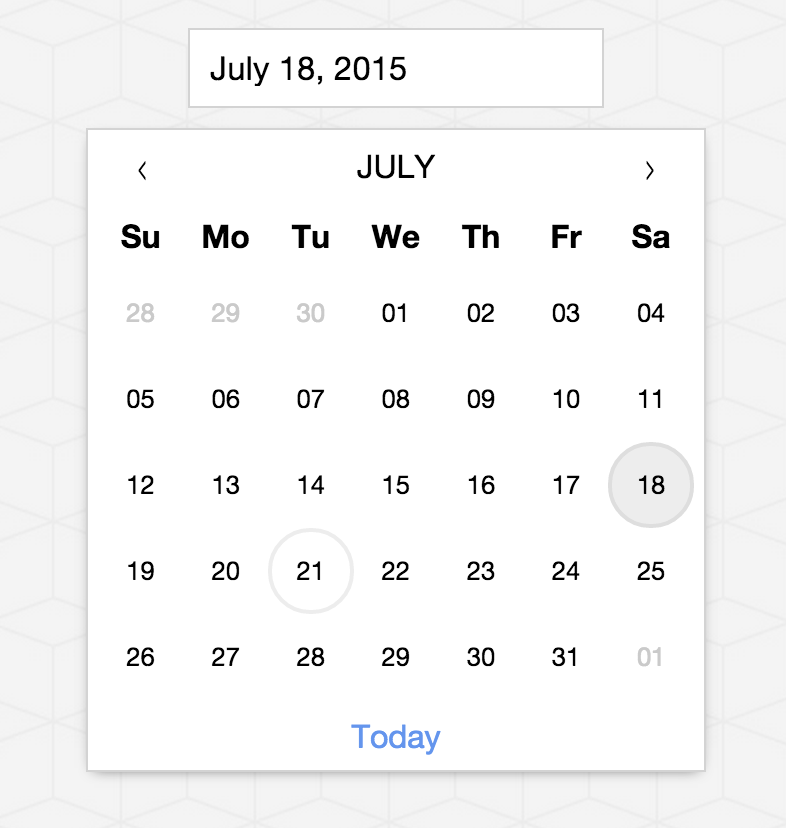
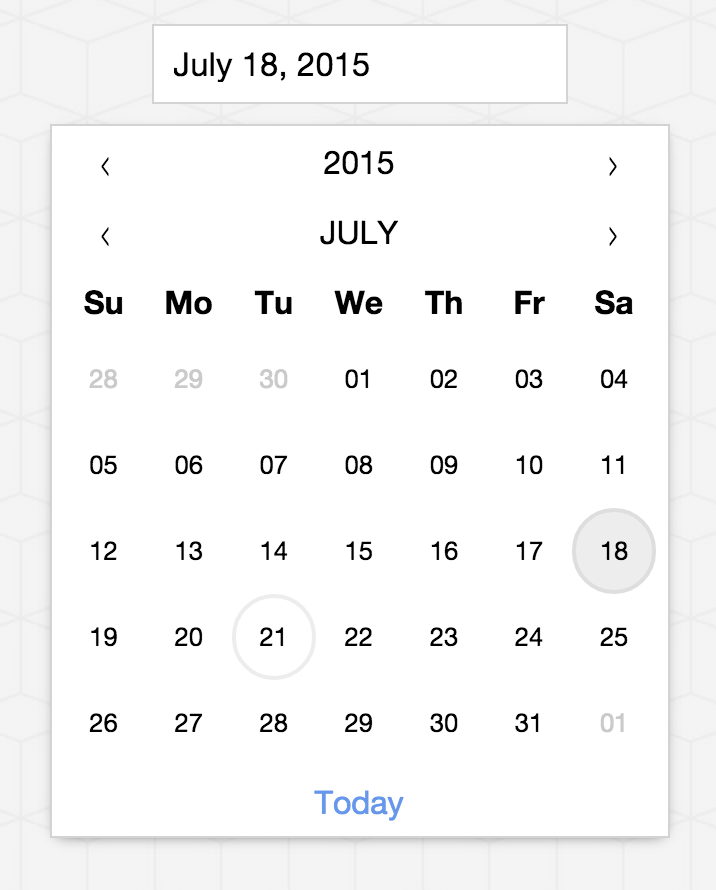
Added year selector and ability to turn selectors on and off

diff --git a/dist/rg-datepicker.min.js b/dist/rg-datepicker.min.js
@@ -1,1 +1,1 @@
-riot.tag("rg-datepicker",'<div class="container { open: opened }"> <input type="text" onclick="{ show }" value="{ date.format(opts.format || \'LL\') }" readonly> <div class="calendar" show="{ opened }"> <div class="grid grid-row"> <div class="selector" onclick="{ prevMonth }">&lsaquo;</div> <span class="month">{ date.format(\'MMMM\') }</span> <div class="selector" onclick="{ nextMonth }">&rsaquo;</div> </div> <div class="grid grid-row"> <span class="day-name" each="{ day in dayNames }">{ day }</span> </div> <div class="grid grid-wrap"> <div each="{ day in days }" onclick="{ changeDate }" class="date { in: day.inMonth, selected: day.selected, today: day.today }"> { day.date.format(\'DD\') } </div> </div> <div class="grid grid-row"> <a class="shortcut" onclick="{ setToday }">Today</a> </div> </div> </div>','rg-datepicker .container, [riot-tag="rg-datepicker"] .container{ position: relative; display: inline-block; cursor: pointer; } rg-datepicker input, [riot-tag="rg-datepicker"] input{ font-size: 1em; padding: 10px; border: 1px solid #D3D3D3; cursor: pointer; -webkit-box-sizing: border-box; -moz-box-sizing: border-box; box-sizing: border-box; outline: none; } rg-datepicker .calendar, [riot-tag="rg-datepicker"] .calendar{ position: absolute; text-align: center; background-color: white; border: 1px solid #D3D3D3; padding: 0 5px; width: 310px; margin-top: 10px; left: 50%; -webkit-transform: translateX(-50%); -moz-transform: translateX(-50%); -ms-transform: translateX(-50%); -o-transform: translateX(-50%); transform: translateX(-50%); -webkit-user-select: none; -moz-user-select: none; -ms-user-select: none; user-select: none; -webkit-box-sizing: border-box; -moz-box-sizing: border-box; box-sizing: border-box; -webkit-box-shadow: 0 2px 10px -4px #444; -moz-box-shadow: 0 2px 10px -4px #444; box-shadow: 0 2px 10px -4px #444; } rg-datepicker .grid, [riot-tag="rg-datepicker"] .grid{ display: -webkit-flex; display: -ms-flexbox; display: flex; -webkit-align-items: center; -ms-flex-align: center; align-items: center; } rg-datepicker .grid-wrap, [riot-tag="rg-datepicker"] .grid-wrap{ width: 100%; -webkit-flex-wrap: wrap; -ms-flex-wrap: wrap; flex-wrap: wrap; } rg-datepicker .grid-row, [riot-tag="rg-datepicker"] .grid-row{ height: 35px; } rg-datepicker .selector, [riot-tag="rg-datepicker"] .selector{ font-size: 2em; font-weight: 100; padding: 0; -webkit-flex: 0 0 15%; -ms-flex: 0 0 15%; flex: 0 0 15%; } rg-datepicker .month, [riot-tag="rg-datepicker"] .month{ text-transform: uppercase; font-weight: normal; -webkit-flex: 0 0 70%; -ms-flex: 0 0 70%; flex: 0 0 70%; } rg-datepicker .day-name, [riot-tag="rg-datepicker"] .day-name{ font-weight: bold; -webkit-flex: 0 0 14.28%; -ms-flex: 0 0 14.28%; flex: 0 0 14.28%; } rg-datepicker .date, [riot-tag="rg-datepicker"] .date{ -webkit-flex: 0 0 14.28%; -ms-flex: 0 0 14.28%; flex: 0 0 14.28%; padding: 12px; box-sizing: border-box; font-size: 0.8em; border-radius: 100%; font-weight: normal; border: 2px solid transparent; color: #cacaca; } rg-datepicker .date:hover, [riot-tag="rg-datepicker"] .date:hover{ background-color: #f3f3f3; } rg-datepicker .date.in, [riot-tag="rg-datepicker"] .date.in{ color: inherit; } rg-datepicker .today, [riot-tag="rg-datepicker"] .today{ border-color: #ededed; } rg-datepicker .selected, [riot-tag="rg-datepicker"] .selected,rg-datepicker .selected:hover, [riot-tag="rg-datepicker"] .selected:hover{ background-color: #ededed; border-color: #dedede; } rg-datepicker .shortcut, [riot-tag="rg-datepicker"] .shortcut{ -webkit-flex: 0 0 100%; -ms-flex: 0 0 100%; flex: 0 0 100%; color: #6495ed; }',function(opts){var _this=this;_this.date=moment(opts.date||new Date);function handleClickOutside(e){if(!_this.root.contains(e.target)&&_this.opened){if(opts.onclose){opts.onclose(_this.date)}_this.opened=false;_this.update()}}function buildCalendar(){var cursor=moment(_this.date);var end=moment(cursor);cursor.startOf("month");cursor.day(0);end.endOf("month");end.day(6);_this.dayNames=[];_this.days=[];while(cursor.isBefore(end)){if(_this.dayNames.length<7){_this.dayNames.push(cursor.format("dd"))}_this.days.push({date:moment(cursor),selected:_this.date.isSame(cursor,"day"),today:moment().isSame(cursor,"day"),inMonth:_this.date.isSame(cursor,"month")});cursor=cursor.add(1,"days")}_this.opts.date=_this.date.toDate();_this.update()}_this.on("mount",function(){document.addEventListener("click",handleClickOutside)});_this.on("unmount",function(){document.removeEventListener("click",handleClickOutside)});_this.changeDate=function(e){_this.date=e.item.day.date;if(opts.onselect){opts.onselect(_this.date)}buildCalendar()};_this.setToday=function(){_this.date=opts.date=moment();if(opts.onselect){opts.onselect(_this.date)}buildCalendar()};_this.prevMonth=function(){_this.date.subtract(1,"month");buildCalendar()};_this.nextMonth=function(){_this.date.add(1,"month");buildCalendar()};_this.show=function(){if(opts.onopen){opts.onopen()}buildCalendar();_this.opened=true}});
+riot.tag("rg-datepicker",'{ opts.months} <div class="container { open: opened }"> <input type="text" onclick="{ show }" value="{ date.format(opts.format || \'LL\') }" readonly> <div class="calendar" show="{ opened }"> <div class="grid grid-row" if="{ opts.years != \'false\' }"> <div class="selector" onclick="{ prevYear }">&lsaquo;</div> <span class="year">{ date.format(\'YYYY\') }</span> <div class="selector" onclick="{ nextYear }">&rsaquo;</div> </div> <div class="grid grid-row" if="{ opts.years == \'false\' }"> <span class="year fill">{ date.format(\'YYYY\') }</span> </div> <div class="grid grid-row" if="{ opts.months != \'false\' }"> <div class="selector" onclick="{ prevMonth }">&lsaquo;</div> <span class="month">{ date.format(\'MMMM\') }</span> <div class="selector" onclick="{ nextMonth }">&rsaquo;</div> </div> <div class="grid grid-row" if="{ opts.months == \'false\' }"> <span class="month fill">{ date.format(\'MMMM\') }</span> </div> <div class="grid grid-row"> <span class="day-name" each="{ day in dayNames }">{ day }</span> </div> <div class="grid grid-wrap"> <div each="{ day in days }" onclick="{ changeDate }" class="date { in: day.inMonth, selected: day.selected, today: day.today }"> { day.date.format(\'DD\') } </div> </div> <div class="grid grid-row"> <a class="shortcut" onclick="{ setToday }">Today</a> </div> </div> </div>','rg-datepicker .container, [riot-tag="rg-datepicker"] .container{ position: relative; display: inline-block; cursor: pointer; } rg-datepicker input, [riot-tag="rg-datepicker"] input{ font-size: 1em; padding: 10px; border: 1px solid #D3D3D3; cursor: pointer; -webkit-box-sizing: border-box; -moz-box-sizing: border-box; box-sizing: border-box; outline: none; } rg-datepicker .calendar, [riot-tag="rg-datepicker"] .calendar{ position: absolute; text-align: center; background-color: white; border: 1px solid #D3D3D3; padding: 0 5px; width: 310px; margin-top: 10px; left: 50%; -webkit-transform: translateX(-50%); -moz-transform: translateX(-50%); -ms-transform: translateX(-50%); -o-transform: translateX(-50%); transform: translateX(-50%); -webkit-user-select: none; -moz-user-select: none; -ms-user-select: none; user-select: none; -webkit-box-sizing: border-box; -moz-box-sizing: border-box; box-sizing: border-box; -webkit-box-shadow: 0 2px 10px -4px #444; -moz-box-shadow: 0 2px 10px -4px #444; box-shadow: 0 2px 10px -4px #444; } rg-datepicker .grid, [riot-tag="rg-datepicker"] .grid{ display: -webkit-flex; display: -ms-flexbox; display: flex; -webkit-align-items: center; -ms-flex-align: center; align-items: center; } rg-datepicker .grid-wrap, [riot-tag="rg-datepicker"] .grid-wrap{ width: 100%; -webkit-flex-wrap: wrap; -ms-flex-wrap: wrap; flex-wrap: wrap; } rg-datepicker .grid-row, [riot-tag="rg-datepicker"] .grid-row{ height: 35px; } rg-datepicker .selector, [riot-tag="rg-datepicker"] .selector{ font-size: 2em; font-weight: 100; padding: 0; -webkit-flex: 0 0 15%; -ms-flex: 0 0 15%; flex: 0 0 15%; } rg-datepicker .year, [riot-tag="rg-datepicker"] .year,rg-datepicker .month, [riot-tag="rg-datepicker"] .month{ text-transform: uppercase; font-weight: normal; -webkit-flex: 0 0 70%; -ms-flex: 0 0 70%; flex: 0 0 70%; } rg-datepicker .fill, [riot-tag="rg-datepicker"] .fill{ -webkit-flex: 0 0 100%; -ms-flex: 0 0 100%; flex: 0 0 100%; } rg-datepicker .day-name, [riot-tag="rg-datepicker"] .day-name{ font-weight: bold; -webkit-flex: 0 0 14.28%; -ms-flex: 0 0 14.28%; flex: 0 0 14.28%; } rg-datepicker .date, [riot-tag="rg-datepicker"] .date{ -webkit-flex: 0 0 14.28%; -ms-flex: 0 0 14.28%; flex: 0 0 14.28%; padding: 12px; box-sizing: border-box; font-size: 0.8em; border-radius: 100%; font-weight: normal; border: 2px solid transparent; color: #cacaca; } rg-datepicker .date:hover, [riot-tag="rg-datepicker"] .date:hover{ background-color: #f3f3f3; } rg-datepicker .date.in, [riot-tag="rg-datepicker"] .date.in{ color: inherit; } rg-datepicker .today, [riot-tag="rg-datepicker"] .today{ border-color: #ededed; } rg-datepicker .selected, [riot-tag="rg-datepicker"] .selected,rg-datepicker .selected:hover, [riot-tag="rg-datepicker"] .selected:hover{ background-color: #ededed; border-color: #dedede; } rg-datepicker .shortcut, [riot-tag="rg-datepicker"] .shortcut{ -webkit-flex: 0 0 100%; -ms-flex: 0 0 100%; flex: 0 0 100%; color: #6495ed; }',function(opts){var _this=this;_this.date=moment(opts.date||new Date);function handleClickOutside(e){if(!_this.root.contains(e.target)&&_this.opened){if(opts.onclose){opts.onclose(_this.date)}_this.opened=false;_this.update()}}function buildCalendar(){var cursor=moment(_this.date);var end=moment(cursor);cursor.startOf("month");cursor.day(0);end.endOf("month");end.day(6);_this.dayNames=[];_this.days=[];while(cursor.isBefore(end)){if(_this.dayNames.length<7){_this.dayNames.push(cursor.format("dd"))}_this.days.push({date:moment(cursor),selected:_this.date.isSame(cursor,"day"),today:moment().isSame(cursor,"day"),inMonth:_this.date.isSame(cursor,"month")});cursor=cursor.add(1,"days")}_this.opts.date=_this.date.toDate();_this.update()}_this.on("mount",function(){document.addEventListener("click",handleClickOutside)});_this.on("unmount",function(){document.removeEventListener("click",handleClickOutside)});_this.changeDate=function(e){_this.date=e.item.day.date;if(opts.onselect){opts.onselect(_this.date)}buildCalendar()};_this.setToday=function(){_this.date=opts.date=moment();if(opts.onselect){opts.onselect(_this.date)}buildCalendar()};_this.prevYear=function(){_this.date.subtract(1,"year");buildCalendar()};_this.nextYear=function(){_this.date.add(1,"year");buildCalendar()};_this.prevMonth=function(){_this.date.subtract(1,"month");buildCalendar()};_this.nextMonth=function(){_this.date.add(1,"month");buildCalendar()};_this.show=function(){if(opts.onopen){opts.onopen()}buildCalendar();_this.opened=true}});

diff --git a/dist/rg-datepicker.js b/dist/rg-datepicker.js
@@ -1,4 +1,4 @@
-riot.tag('rg-datepicker', '<div class="container { open: opened }"> <input type="text" onclick="{ show }" value="{ date.format(opts.format || \'LL\') }" readonly> <div class="calendar" show="{ opened }"> <div class="grid grid-row"> <div class="selector" onclick="{ prevMonth }">&lsaquo;</div> <span class="month">{ date.format(\'MMMM\') }</span> <div class="selector" onclick="{ nextMonth }">&rsaquo;</div> </div> <div class="grid grid-row"> <span class="day-name" each="{ day in dayNames }">{ day }</span> </div> <div class="grid grid-wrap"> <div each="{ day in days }" onclick="{ changeDate }" class="date { in: day.inMonth, selected: day.selected, today: day.today }"> { day.date.format(\'DD\') } </div> </div> <div class="grid grid-row"> <a class="shortcut" onclick="{ setToday }">Today</a> </div> </div> </div>', 'rg-datepicker .container, [riot-tag="rg-datepicker"] .container{ position: relative; display: inline-block; cursor: pointer; } rg-datepicker input, [riot-tag="rg-datepicker"] input{ font-size: 1em; padding: 10px; border: 1px solid #D3D3D3; cursor: pointer; -webkit-box-sizing: border-box; -moz-box-sizing: border-box; box-sizing: border-box; outline: none; } rg-datepicker .calendar, [riot-tag="rg-datepicker"] .calendar{ position: absolute; text-align: center; background-color: white; border: 1px solid #D3D3D3; padding: 0 5px; width: 310px; margin-top: 10px; left: 50%; -webkit-transform: translateX(-50%); -moz-transform: translateX(-50%); -ms-transform: translateX(-50%); -o-transform: translateX(-50%); transform: translateX(-50%); -webkit-user-select: none; -moz-user-select: none; -ms-user-select: none; user-select: none; -webkit-box-sizing: border-box; -moz-box-sizing: border-box; box-sizing: border-box; -webkit-box-shadow: 0 2px 10px -4px #444; -moz-box-shadow: 0 2px 10px -4px #444; box-shadow: 0 2px 10px -4px #444; } rg-datepicker .grid, [riot-tag="rg-datepicker"] .grid{ display: -webkit-flex; display: -ms-flexbox; display: flex; -webkit-align-items: center; -ms-flex-align: center; align-items: center; } rg-datepicker .grid-wrap, [riot-tag="rg-datepicker"] .grid-wrap{ width: 100%; -webkit-flex-wrap: wrap; -ms-flex-wrap: wrap; flex-wrap: wrap; } rg-datepicker .grid-row, [riot-tag="rg-datepicker"] .grid-row{ height: 35px; } rg-datepicker .selector, [riot-tag="rg-datepicker"] .selector{ font-size: 2em; font-weight: 100; padding: 0; -webkit-flex: 0 0 15%; -ms-flex: 0 0 15%; flex: 0 0 15%; } rg-datepicker .month, [riot-tag="rg-datepicker"] .month{ text-transform: uppercase; font-weight: normal; -webkit-flex: 0 0 70%; -ms-flex: 0 0 70%; flex: 0 0 70%; } rg-datepicker .day-name, [riot-tag="rg-datepicker"] .day-name{ font-weight: bold; -webkit-flex: 0 0 14.28%; -ms-flex: 0 0 14.28%; flex: 0 0 14.28%; } rg-datepicker .date, [riot-tag="rg-datepicker"] .date{ -webkit-flex: 0 0 14.28%; -ms-flex: 0 0 14.28%; flex: 0 0 14.28%; padding: 12px; box-sizing: border-box; font-size: 0.8em; border-radius: 100%; font-weight: normal; border: 2px solid transparent; color: #cacaca; } rg-datepicker .date:hover, [riot-tag="rg-datepicker"] .date:hover{ background-color: #f3f3f3; } rg-datepicker .date.in, [riot-tag="rg-datepicker"] .date.in{ color: inherit; } rg-datepicker .today, [riot-tag="rg-datepicker"] .today{ border-color: #ededed; } rg-datepicker .selected, [riot-tag="rg-datepicker"] .selected,rg-datepicker .selected:hover, [riot-tag="rg-datepicker"] .selected:hover{ background-color: #ededed; border-color: #dedede; } rg-datepicker .shortcut, [riot-tag="rg-datepicker"] .shortcut{ -webkit-flex: 0 0 100%; -ms-flex: 0 0 100%; flex: 0 0 100%; color: #6495ed; }', function(opts) {
+riot.tag('rg-datepicker', '{ opts.months} <div class="container { open: opened }"> <input type="text" onclick="{ show }" value="{ date.format(opts.format || \'LL\') }" readonly> <div class="calendar" show="{ opened }"> <div class="grid grid-row" if="{ opts.years != \'false\' }"> <div class="selector" onclick="{ prevYear }">&lsaquo;</div> <span class="year">{ date.format(\'YYYY\') }</span> <div class="selector" onclick="{ nextYear }">&rsaquo;</div> </div> <div class="grid grid-row" if="{ opts.years == \'false\' }"> <span class="year fill">{ date.format(\'YYYY\') }</span> </div> <div class="grid grid-row" if="{ opts.months != \'false\' }"> <div class="selector" onclick="{ prevMonth }">&lsaquo;</div> <span class="month">{ date.format(\'MMMM\') }</span> <div class="selector" onclick="{ nextMonth }">&rsaquo;</div> </div> <div class="grid grid-row" if="{ opts.months == \'false\' }"> <span class="month fill">{ date.format(\'MMMM\') }</span> </div> <div class="grid grid-row"> <span class="day-name" each="{ day in dayNames }">{ day }</span> </div> <div class="grid grid-wrap"> <div each="{ day in days }" onclick="{ changeDate }" class="date { in: day.inMonth, selected: day.selected, today: day.today }"> { day.date.format(\'DD\') } </div> </div> <div class="grid grid-row"> <a class="shortcut" onclick="{ setToday }">Today</a> </div> </div> </div>', 'rg-datepicker .container, [riot-tag="rg-datepicker"] .container{ position: relative; display: inline-block; cursor: pointer; } rg-datepicker input, [riot-tag="rg-datepicker"] input{ font-size: 1em; padding: 10px; border: 1px solid #D3D3D3; cursor: pointer; -webkit-box-sizing: border-box; -moz-box-sizing: border-box; box-sizing: border-box; outline: none; } rg-datepicker .calendar, [riot-tag="rg-datepicker"] .calendar{ position: absolute; text-align: center; background-color: white; border: 1px solid #D3D3D3; padding: 0 5px; width: 310px; margin-top: 10px; left: 50%; -webkit-transform: translateX(-50%); -moz-transform: translateX(-50%); -ms-transform: translateX(-50%); -o-transform: translateX(-50%); transform: translateX(-50%); -webkit-user-select: none; -moz-user-select: none; -ms-user-select: none; user-select: none; -webkit-box-sizing: border-box; -moz-box-sizing: border-box; box-sizing: border-box; -webkit-box-shadow: 0 2px 10px -4px #444; -moz-box-shadow: 0 2px 10px -4px #444; box-shadow: 0 2px 10px -4px #444; } rg-datepicker .grid, [riot-tag="rg-datepicker"] .grid{ display: -webkit-flex; display: -ms-flexbox; display: flex; -webkit-align-items: center; -ms-flex-align: center; align-items: center; } rg-datepicker .grid-wrap, [riot-tag="rg-datepicker"] .grid-wrap{ width: 100%; -webkit-flex-wrap: wrap; -ms-flex-wrap: wrap; flex-wrap: wrap; } rg-datepicker .grid-row, [riot-tag="rg-datepicker"] .grid-row{ height: 35px; } rg-datepicker .selector, [riot-tag="rg-datepicker"] .selector{ font-size: 2em; font-weight: 100; padding: 0; -webkit-flex: 0 0 15%; -ms-flex: 0 0 15%; flex: 0 0 15%; } rg-datepicker .year, [riot-tag="rg-datepicker"] .year,rg-datepicker .month, [riot-tag="rg-datepicker"] .month{ text-transform: uppercase; font-weight: normal; -webkit-flex: 0 0 70%; -ms-flex: 0 0 70%; flex: 0 0 70%; } rg-datepicker .fill, [riot-tag="rg-datepicker"] .fill{ -webkit-flex: 0 0 100%; -ms-flex: 0 0 100%; flex: 0 0 100%; } rg-datepicker .day-name, [riot-tag="rg-datepicker"] .day-name{ font-weight: bold; -webkit-flex: 0 0 14.28%; -ms-flex: 0 0 14.28%; flex: 0 0 14.28%; } rg-datepicker .date, [riot-tag="rg-datepicker"] .date{ -webkit-flex: 0 0 14.28%; -ms-flex: 0 0 14.28%; flex: 0 0 14.28%; padding: 12px; box-sizing: border-box; font-size: 0.8em; border-radius: 100%; font-weight: normal; border: 2px solid transparent; color: #cacaca; } rg-datepicker .date:hover, [riot-tag="rg-datepicker"] .date:hover{ background-color: #f3f3f3; } rg-datepicker .date.in, [riot-tag="rg-datepicker"] .date.in{ color: inherit; } rg-datepicker .today, [riot-tag="rg-datepicker"] .today{ border-color: #ededed; } rg-datepicker .selected, [riot-tag="rg-datepicker"] .selected,rg-datepicker .selected:hover, [riot-tag="rg-datepicker"] .selected:hover{ background-color: #ededed; border-color: #dedede; } rg-datepicker .shortcut, [riot-tag="rg-datepicker"] .shortcut{ -webkit-flex: 0 0 100%; -ms-flex: 0 0 100%; flex: 0 0 100%; color: #6495ed; }', function(opts) {
 		var _this = this;
 		_this.date = moment(opts.date || new Date());
 
@@ -64,6 +64,16 @@ riot.tag('rg-datepicker', '<div class="container { open: opened }"> <input type=
 			if (opts.onselect) {
 				opts.onselect(_this.date);
 			}
+			buildCalendar();
+		};
+
+		_this.prevYear = function () {
+			_this.date.subtract(1, 'year');
+			buildCalendar();
+		};
+
+		_this.nextYear = function () {
+			_this.date.add(1, 'year');
 			buildCalendar();
 		};
 

diff --git a/README.md b/README.md
@@ -7,6 +7,8 @@ Add this to your Riot app markup
 ```html
 <rg-datepicker date="2015-07-18"
                format="LL"
+               months="false"
+               years="false"
                onopen="{ opened }"
                onclose="{ closed }"
                onselect="{ selected }">
@@ -25,6 +27,7 @@ this.selected = function (date) { ... }
 
 - `date` defaults to today if you don't specify one.
 - `format` is what the format you would like to have output to the text box. Defaults to 'LL' = July 21, 2015
+- `months` and `years` when set to false will turn of the month and year incredment controls.
 
 This component relies on a third party date management library called **Moment**. You can find more information 
 about Moment from their website at <a href="http://momentjs.com/">http://momentjs.com/</a>.
